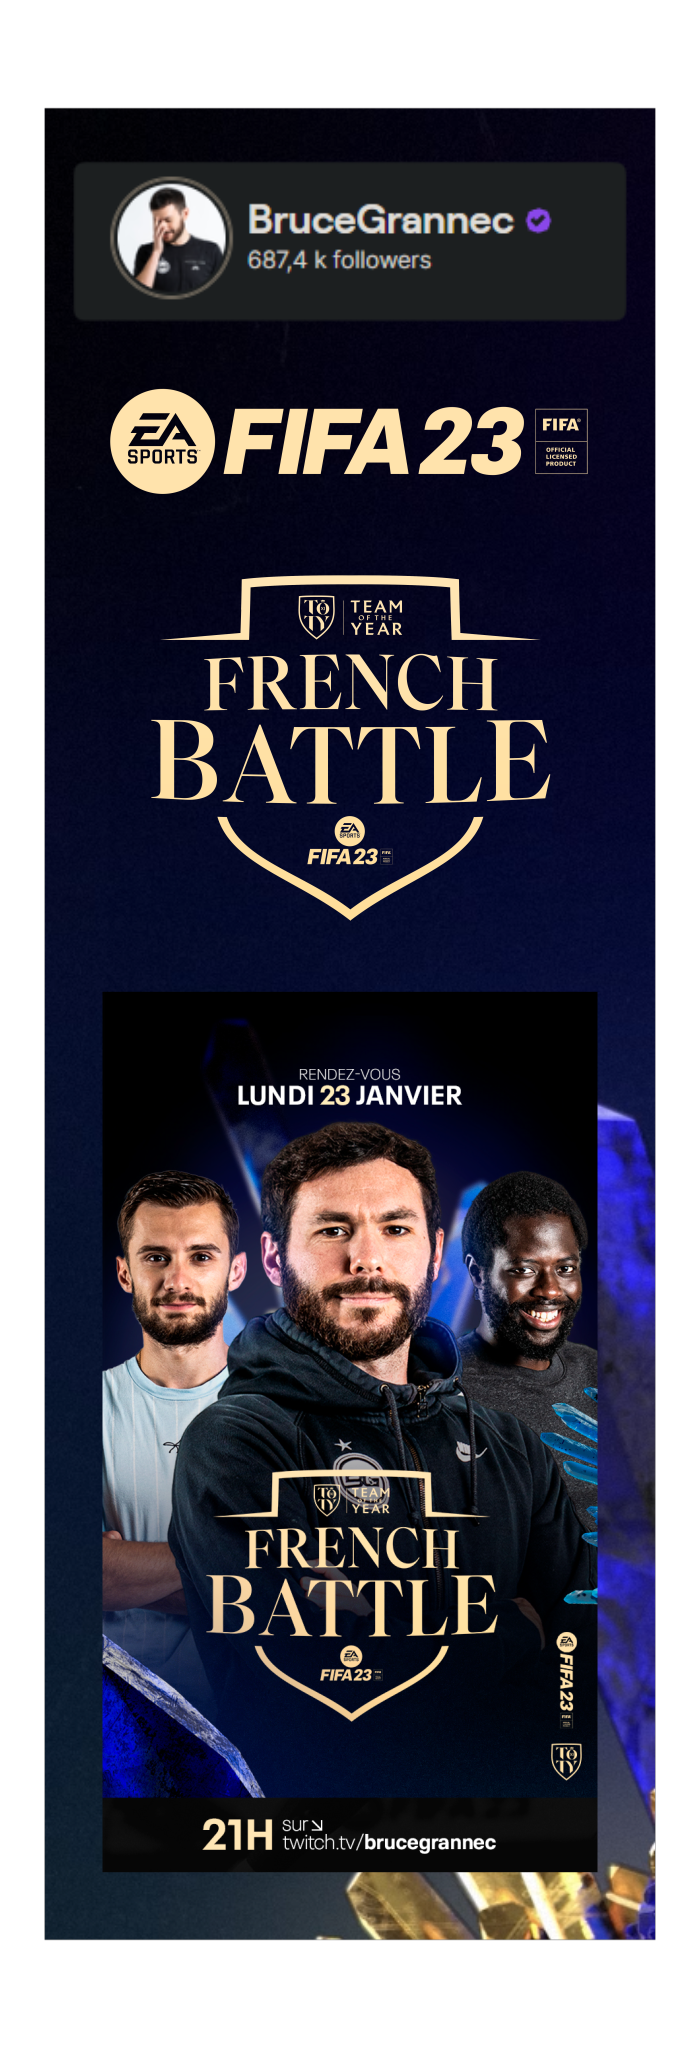
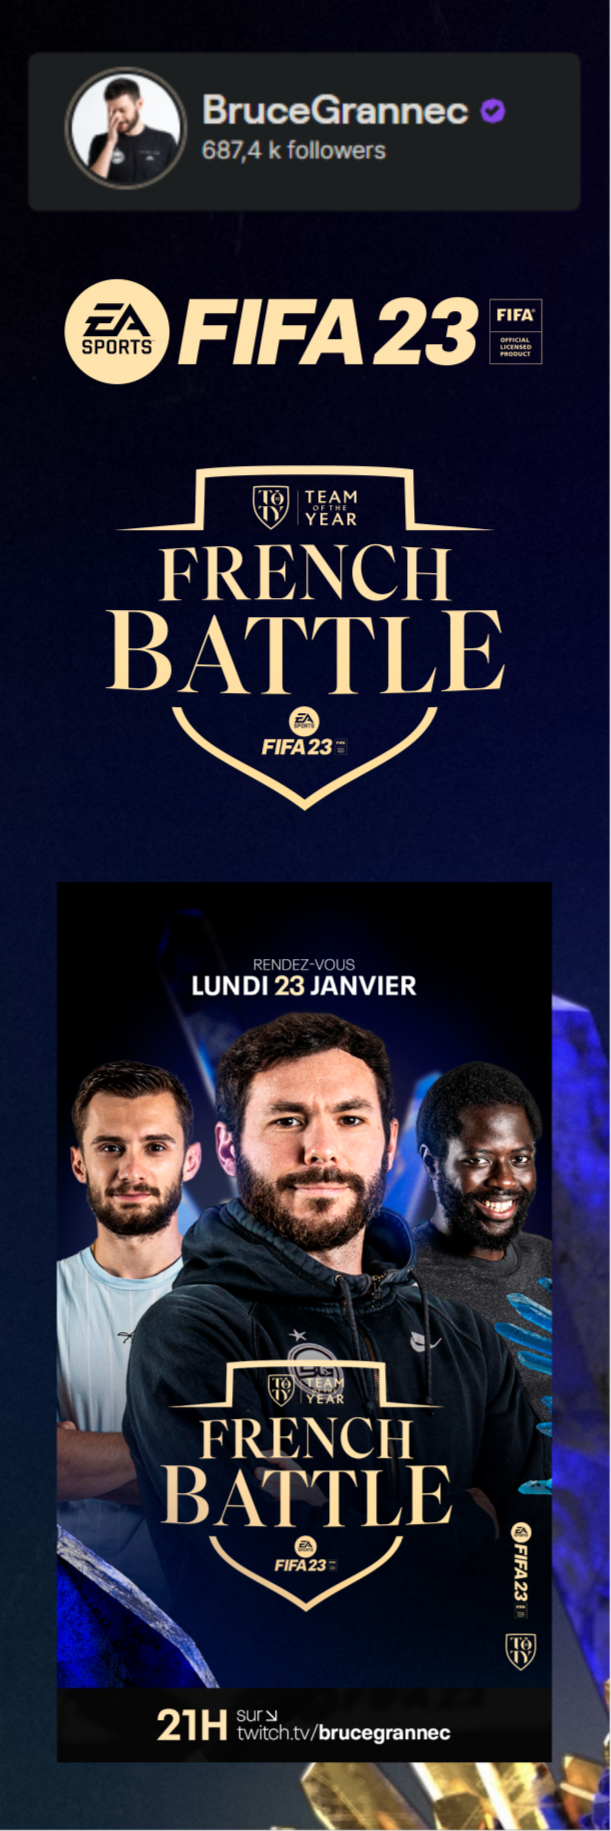
Modify css

diff --git a/src/pages/ServicePage/Bruce_Grannec_Page/StyledBruceGrannec.js b/src/pages/ServicePage/Bruce_Grannec_Page/StyledBruceGrannec.js
@@ -1,30 +1,31 @@
 import styled from 'styled-components'
 
 const StyledPage = styled.div`
-padding: 96px 25px 50px 25px;
-margin-bottom: 25px;
-width: 100%;
-height: 100vh;
+display: flex;
 background: url('src/assets/Bruce_Grannec/background.webp');
 background-size: cover;
+width: 100%;
+padding: 96px 15px 26px 15px;
+height: 100vh;
+border: 2px solid yellow;
 `
 const StyledContainer = styled.div`
 display: grid;
-gap: 36px;
-max-height: 100%;
-margin: 0px auto;
-grid-template-columns: repeat(4, minmax(300px, 1fr));
-grid-template-rows: repeat(4, minmax(0, 1fr));
-width: 95%;
-height: auto;
+justify-items: center;
+gap: 10px;
+margin: 0 auto;
+width: 100%;
+height: 100%;
+grid-template-columns: 1fr 2fr 3fr;
+grid-template-rows: 300px 100px 1fr;
+border: 2px solid red;
 `
 
 // For the label on the left
 
 const StyledDivLabelOnSide = styled.div`
-width: 100%;
-height: 100%;
 grid-row: 1 / span 3;
+grid-column: 1;
 `
 
 const StyledImgLabel = styled.img`
@@ -32,53 +33,56 @@ width: 100%;
 height: 100%;
 object-fit: cover;
 `
-
-const StyledParagrahAndLogo = styled.div`
-display: flex;
-flex-direction: column;
-align-items: center;
-`
-
-const StyledParagraph = styled.p`
-width: 300px;
+const StyledDivParagrah = styled.div`
+width: 100%;
+height: 100%;
+border: 1px solid pink;
 grid-row: 1;
 grid-column: 2;
+`
+const StyledParagraph = styled.p`
+border: 1px solid blue;
+width: 100%;
+height: 100%;
+margin: 0;
 font-family: Lexend;
+font-size: 1em;
 text-align: center;
 color: white;
 background-color: rgba(0, 0, 0, 0.7);
-padding: 10px;
+padding: 2%;
 border-radius: 30px;
 `
 
 const StyledDivLogo = styled.div`
-grid-row: 1;
-display: grid;
 display: flex;
+grid-row: 1;
 align-items: center;
-justify-content: center;
+justify-content: center;;
 gap: 5px;
-width: 20%;
+width: 30%;
 height: 100%;
+grid-row: 2;
+grid-column: 2;
 `
 
 const StyledLogo = styled.img`
 display: inline;
-width: 100px;
+width: 150px;
 height: auto;
 object-fit: cover;
 `
 const StyledStar = styled.img`
-width: 50px;
+width: 90px;
 height: auto;
 object-fit: cover;
 `
 
 const StyledDivEventPicture = styled.div`
 width: 100%;
+height: 100%;
 grid-row: 1 / span 2;
-grid-column: 3/ span 2;
-
+grid-column: 3 / span 2;
 ` 
 
 const StyledImageEventPicture = styled.img`
@@ -88,7 +92,12 @@ height: 100%;
 `
 
 const StyledDivCarousel = styled.div`
-
+width: 100%;
+height: 90%;
+margin-top: -2%;
+margin-left: -100%;
+grid-row: 3 / span 1;
+grid-column: 3 / span 1;
 `
  
 export {
@@ -98,7 +107,7 @@ export {
     StyledDivLabelOnSide,
     StyledImgLabel,
     StyledContainer,
-    StyledParagrahAndLogo,
+    StyledDivParagrah,
     StyledDivLogo,
     StyledParagraph,
     StyledDivEventPicture,

diff --git a/src/pages/ServicePage/Bruce_Grannec_Page/Bruce_Grannec_Page.jsx b/src/pages/ServicePage/Bruce_Grannec_Page/Bruce_Grannec_Page.jsx
@@ -11,7 +11,7 @@ import {
   StyledDivLabelOnSide,
   StyledImgLabel,
   StyledContainer,
-  StyledParagrahAndLogo,
+  StyledDivParagrah,
   StyledDivLogo,
   StyledParagraph,
   StyledDivEventPicture,
@@ -25,11 +25,12 @@ export const Bruce_Grannec_Page = () => {
   return (
     <StyledPage>
       <StyledContainer>
+        
         <StyledDivLabelOnSide>
           <StyledImgLabel src={labelOnSide} alt='Label on side'/>
         </StyledDivLabelOnSide>
         
-        <StyledParagrahAndLogo>
+        <StyledDivParagrah>
           <StyledParagraph>
             Nous sommes fiers d&apos;avoir pu collaborer avec Bruce Grannec en fournissant des visuels exceptionnels
             pour son tournoi en collaboration avec FIFA 2023.
@@ -37,17 +38,21 @@ export const Bruce_Grannec_Page = () => {
             pour refléter le professionnalisme et l&apos;enthousiasme du tournoi, offrant à Bruce Grannec
             une présence visuelle distinctive et immersive sur sa plateforme de streaming.
           </StyledParagraph>
+        </StyledDivParagrah>
+
           <StyledDivLogo>
             <StyledStar src={whiteStar} alt="White Logo Explicite" />
             <StyledLogo src={whiteLogo} alt="White Star Explicite" />
           </StyledDivLogo>
-        </StyledParagrahAndLogo>
+
         <StyledDivEventPicture>
           <StyledImageEventPicture src={eventPicture} alt="Event Picture" />
         </StyledDivEventPicture>
+        
         <StyledDivCarousel>
           <Carousel/>
         </StyledDivCarousel>
+
       </StyledContainer>
     </StyledPage>
   )

diff --git a/src/components/Bruce_Grannec/StyledCarousel.js b/src/components/Bruce_Grannec/StyledCarousel.js
@@ -2,9 +2,13 @@ import styled from "styled-components";
 
 const CarouselContainer = styled.div`
 width: 100%;
-margin-top: 80%;
+height: 100%;
+    img {
+        width: 100%;
+        height: 100%;
+        object-fit: cover;
+    }
 `
-
 
 
 export {
